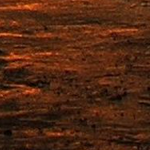
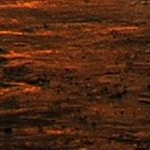
WIP

diff --git a/generate.go b/generate.go
@@ -33,7 +33,7 @@ func main() {
 
 			// Crop the image
 			x := ((i+1) * 76.0) + (i * 150.0)
-			y := 190.0 + (j * 150.0) + (j * 172.0)
+			y := 192.0 + (j * 150.0) + (j * 172.0)
 			cropArg := fmt.Sprintf("crop=150:150:%d:%d", x, y)
 			cmd = exec.Command("ffmpeg", "-i", "wallpaper_scaled.png", "-vf", cropArg, fileName)
 			var stderr bytes.Buffer
